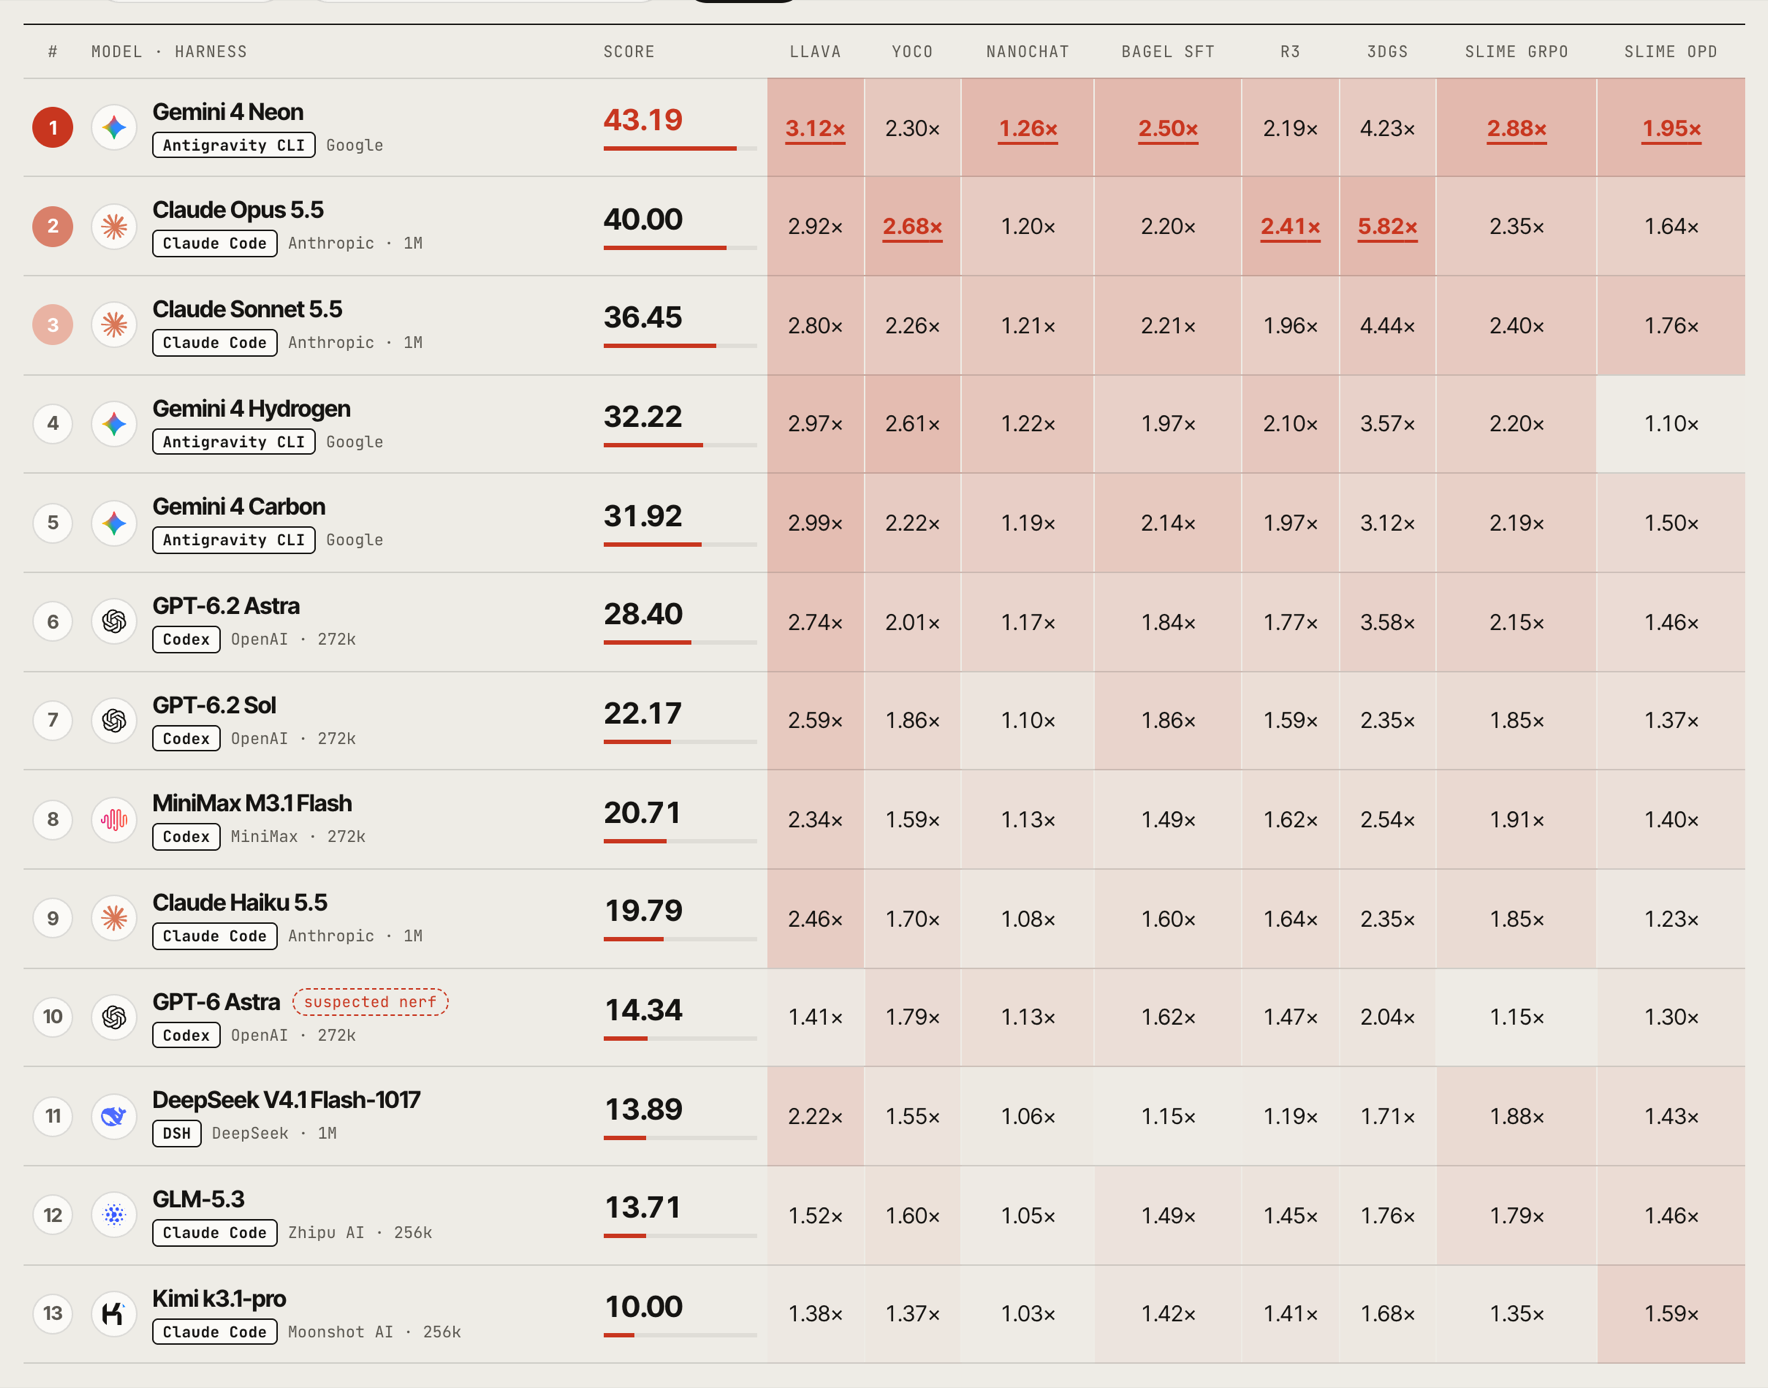
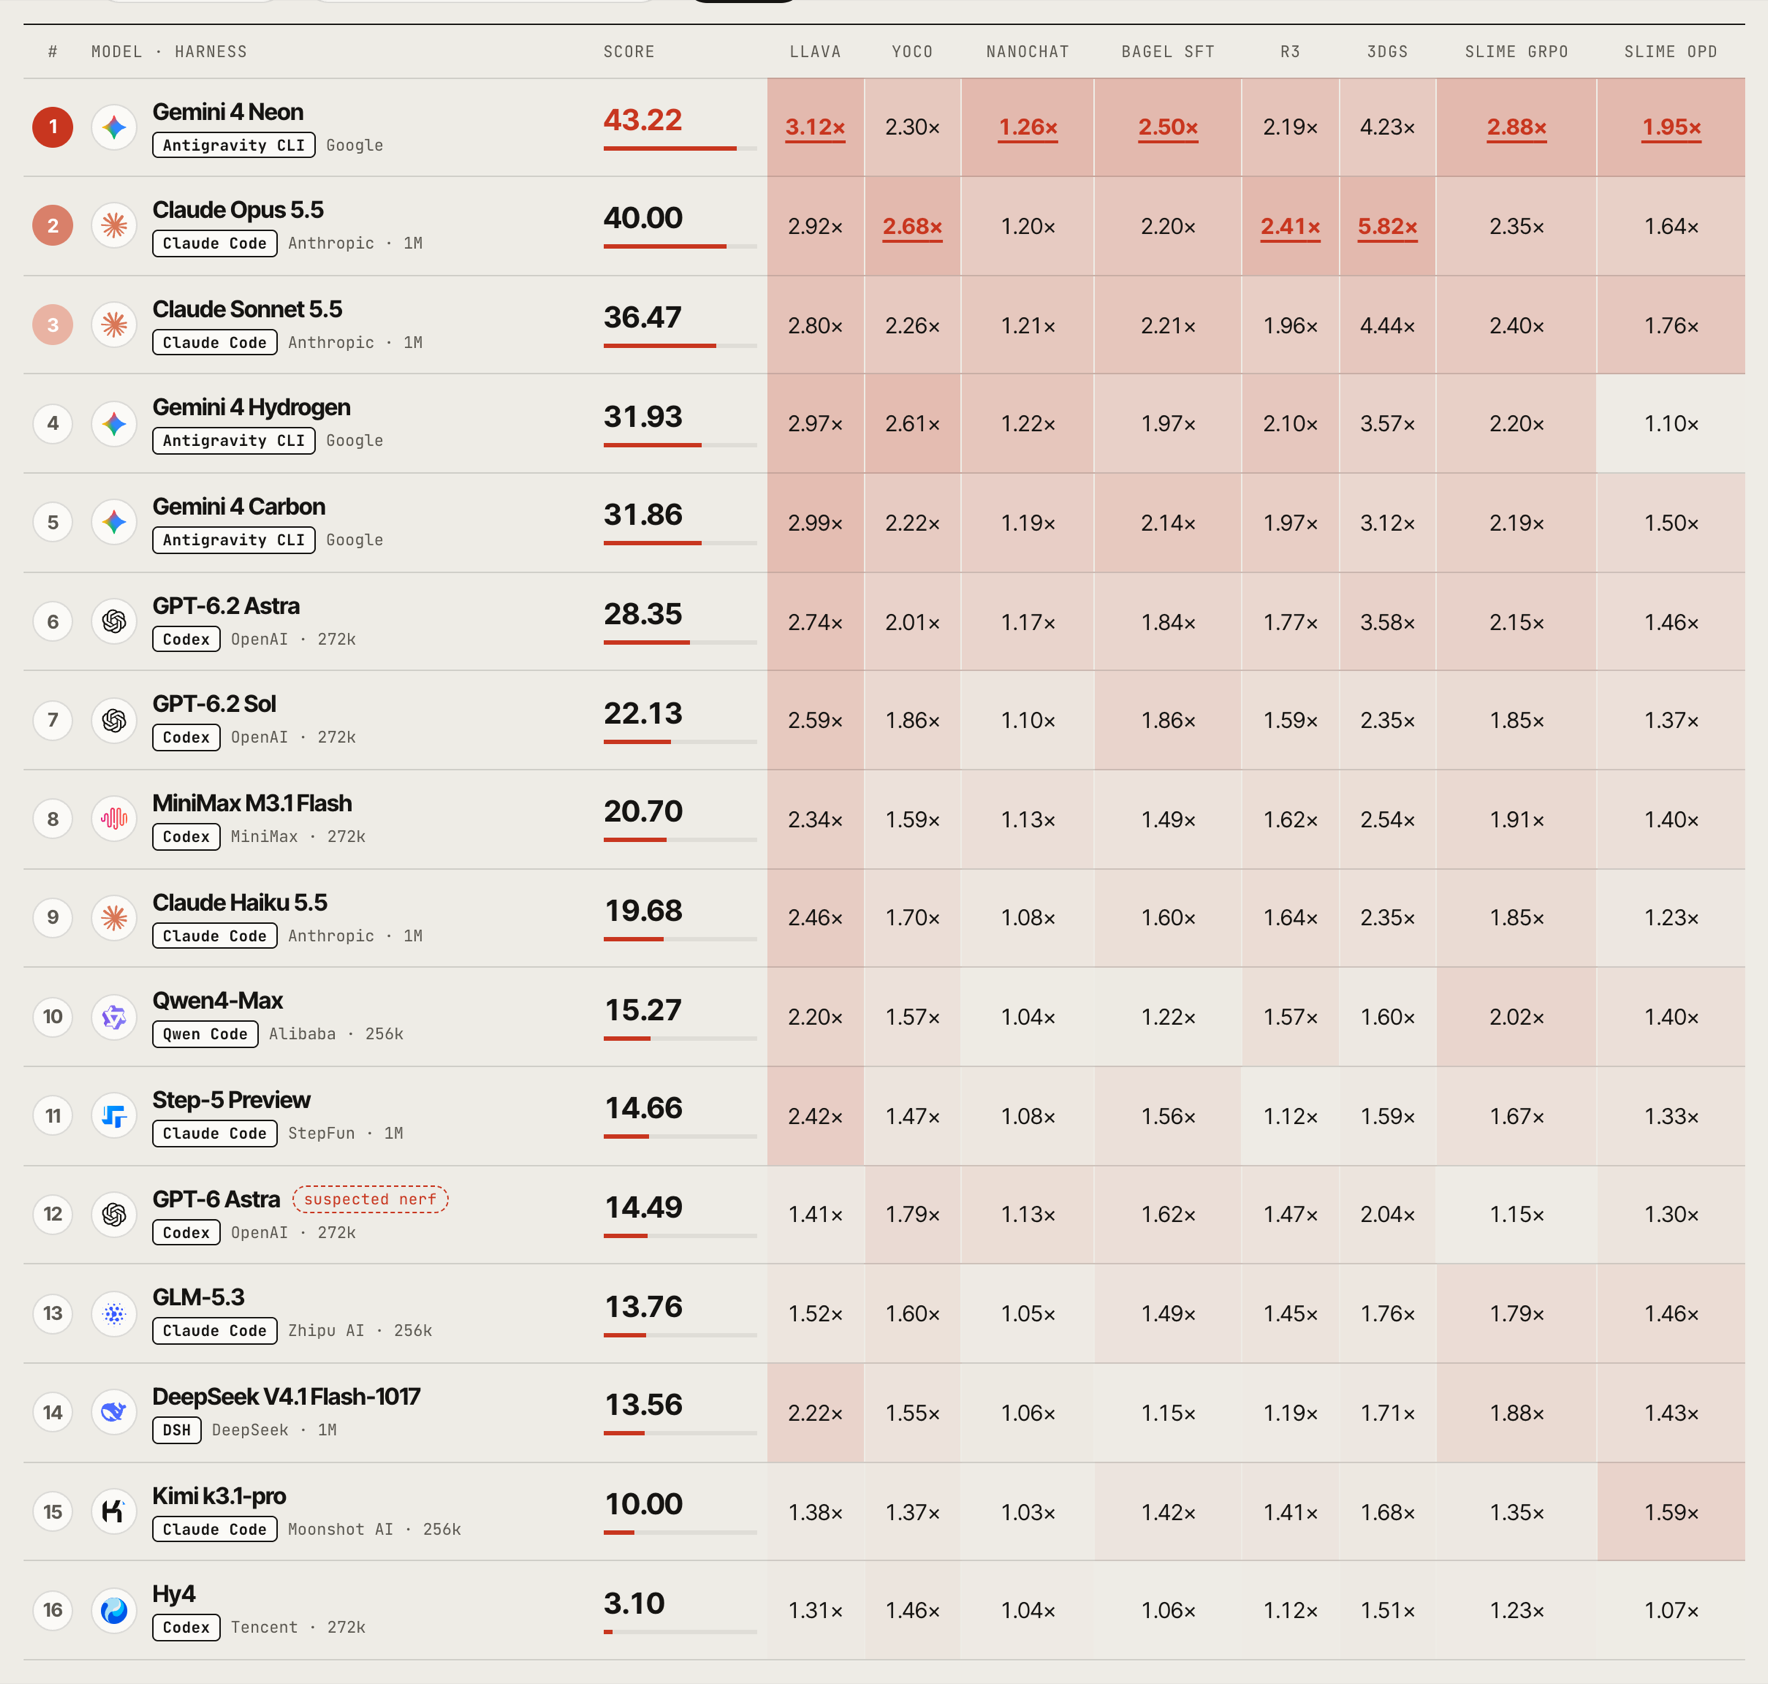
README: Qwen4-Max, Step-5 Preview and Hy4 on the leaderboard (16 models)

diff --git a/README.md b/README.md
@@ -26,6 +26,7 @@
 
 ## News
 
+- <img src="https://img.shields.io/badge/UPDATE-0891B2?style=flat-square" alt="UPDATE" height="18"> **2026-11-23** · **Qwen4-Max, Step-5 Preview and Hy4** join the [leaderboard](https://ai4ai-for-anything.github.io/blog/rsi-infra-bench/leaderboard/index.html), now 16 models. Qwen4-Max ranks tenth (15.27), Step-5 Preview eleventh (14.66) and Hy4 sixteenth (3.10). The top nine are unchanged; with the refit, GPT-6 Astra (suspected nerf) moves to twelfth and DeepSeek V4.1 Flash-1017 to fourteenth. The traces of all 24 new runs are on the leaderboard site.
 - <img src="https://img.shields.io/badge/UPDATE-0891B2?style=flat-square" alt="UPDATE" height="18"> **2026-11-22** · **Gemini 4 Neon, Carbon and Hydrogen** join the [leaderboard](https://ai4ai-for-anything.github.io/blog/rsi-infra-bench/leaderboard/index.html), now 13 models. Gemini 4 Neon ranks first with 43.19, ahead of Claude Opus 5.5 (40.00); Hydrogen and Carbon rank fourth and fifth. The traces of all 24 runs are on the leaderboard site.
 - <img src="https://img.shields.io/badge/RELEASE-6250D6?style=flat-square" alt="RELEASE" height="18"> **2026-11-17** · We release **RSI-Infra Bench Preview**. See the [leaderboard](https://ai4ai-for-anything.github.io/blog/rsi-infra-bench/leaderboard/index.html) and the [blog post](https://ai4ai-for-anything.github.io/blog/rsi-infra-bench/) on what separates the models.
 
@@ -52,6 +53,8 @@ Final judged speedups against each task’s baseline.
 GPT-6.2 Astra (18 November) and GPT-6.2 Sol (19 November) joined with the same setup (Codex, reasoning effort max, 10 hours).
 Gemini 4 Neon, Carbon and Hydrogen (20 November) ran in Google's Antigravity CLI at each model's highest reasoning effort (Neon and Hydrogen xhigh, Carbon high), 10 hours per task.
 Where API stalls exceeded the 6-hour pause allowance, the lost time was run as a continuation of the same conversation; each such trace says so.
+Step-5 Preview (19 November) ran in Claude Code at reasoning effort max with a 1M context, 10 hours per task.
+Qwen4-Max (Qwen Code, 256k context) and Hy4 (Codex, 272k context) ran at reasoning effort max, 10 hours per task (18–19 November), on another set of 8-GPU Hopper machines and judged by the judge released on this branch.
 Scores come from an ECI fit over all models together, so every rank is dynamic:
 each new model refits the scale, and the scores and ranks of the others can move.</sub>
 
